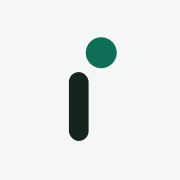
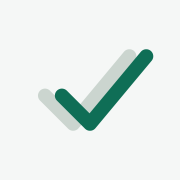
Add files via upload

Changed region(s): [[0.1944, 0.1944, 0.8611, 0.8056]]

diff --git a/index.html b/index.html
@@ -3,7 +3,7 @@
 <head>
 <meta charset="utf-8">
 <meta name="viewport" content="width=device-width, initial-scale=1, viewport-fit=cover">
-<title>Aferí</title>
+<title>Rectius</title>
 <meta name="mobile-web-app-capable" content="yes">
 <meta name="apple-mobile-web-app-capable" content="yes">
 <meta name="apple-mobile-web-app-status-bar-style" content="default">
@@ -180,11 +180,13 @@ tr.me td{font-weight:700}
 #splash.gone{opacity:0;pointer-events:none}
 .splash-name{color:#16241E;font-family:"Space Grotesk";font-size:21px;font-weight:600;letter-spacing:-.01em}
 .splash-sub{color:#6B7280;font-size:12.5px;margin-top:-8px}
-.sp-mark{position:relative;width:120px;height:112px;margin-bottom:6px}
-.sp-i{position:absolute;left:47px;bottom:8px;width:26px;height:66px;border-radius:13px;background:#16241E}
-.sp-bubble{position:absolute;left:74px;top:0;width:40px;height:40px;border-radius:50%;background:#0F6E56;animation:spDrop .8s cubic-bezier(.34,1.56,.64,1) .15s both}
-@keyframes spDrop{0%{transform:translateY(-66px);opacity:0}55%{opacity:1}100%{transform:translateY(0);opacity:1}}
-#splash .splash-name{animation:spFade .5s ease .5s both}
+.sp-mark{position:relative;width:120px;height:112px;margin-bottom:10px}
+.sp-check{fill:none;stroke-linecap:round;stroke-linejoin:round;stroke-dasharray:60;stroke-dashoffset:60}
+.sp-check-1{stroke:#CBD5CF;stroke-width:9;animation:spDraw .7s ease .3s forwards}
+.sp-check-2{stroke:#0F6E56;stroke-width:9;animation:spDraw .7s ease 1.05s forwards}
+@keyframes spDraw{to{stroke-dashoffset:0}}
+.splash-name{opacity:0;animation:spFade .6s ease 2s forwards}
+.splash-sub{opacity:0;animation:spFade .6s ease 2.25s forwards}
 @keyframes spFade{from{opacity:0;transform:translateY(6px)}to{opacity:1;transform:translateY(0)}}
 /* overlays (tutorial / info) */
 .ovl{position:fixed;inset:0;z-index:900;background:rgba(6,20,16,.55);display:flex;align-items:center;
@@ -525,8 +527,8 @@ tr.me td{font-weight:700}
 </head>
 <body>
 <header><div class="wrap hbar">
-  <div class="logo"><svg viewBox="0 0 24 24" fill="none"><rect x="9" y="9.5" width="3.4" height="11" rx="1.7" fill="currentColor"/><circle cx="15.2" cy="7" r="2.7" fill="#0F6E56"/></svg></div>
-  <div><div class="htitle">Aferí<small>Correção por foto · A–E</small></div></div>
+  <div class="logo"><svg viewBox="0 0 24 24" fill="none"><path d="M5.5 12.5 L9.5 16.5 L16 6.5" stroke="#CBD5CF" stroke-width="2.3" stroke-linecap="round" stroke-linejoin="round"/><path d="M8 12.5 L12 16.5 L18.5 6.5" stroke="#0F6E56" stroke-width="2.3" stroke-linecap="round" stroke-linejoin="round"/></svg></div>
+  <div><div class="htitle">Rectius<small>Correção por foto · A–E</small></div></div>
   <button class="iconbtn" id="themeBtn" title="Alternar tema" aria-label="Alternar tema"></button>
 </div></header>
 
@@ -935,17 +937,20 @@ tr.me td{font-weight:700}
     </div>
   </section>
 
-  <div class="sig">Desenvolvido por <b>Thiago Silveira</b> · <span style="opacity:.7">versão 22set-e</span></div>
+  <div class="sig">Desenvolvido por <b>Thiago Silveira</b> · <span style="opacity:.7">versão 02out-rectius-b</span></div>
 </div>
 
 <div class="toast" id="toast"></div>
 
 <div id="splash">
-  <div class="sp-mark" aria-hidden="true"><div class="sp-i"></div><div class="sp-bubble"></div></div>
-  <div class="splash-name">Aferí</div>
-  <div class="splash-sub">Correção por foto</div>
+  <svg class="sp-mark" viewBox="0 0 120 112" aria-hidden="true">
+    <path class="sp-check sp-check-1" d="M30 58 L48 76 L78 34"/>
+    <path class="sp-check sp-check-2" d="M42 58 L60 76 L90 34"/>
+  </svg>
+  <div class="splash-name">Rectius</div>
+  <div class="splash-sub">do latim: mais certo</div>
 </div>
-<script>setTimeout(function(){var s=document.getElementById('splash');if(s){s.style.transition='opacity .45s ease';s.style.opacity='0';setTimeout(function(){if(s&&s.parentNode)s.remove();},520);}},1300);</script>
+<script>setTimeout(function(){var s=document.getElementById('splash');if(s){s.style.transition='opacity .45s ease';s.style.opacity='0';setTimeout(function(){if(s&&s.parentNode)s.remove();},520);}},3550);</script>
 
 <div id="folhaOvl" class="ovl hidden">
   <div class="ovl-card">
@@ -984,7 +989,7 @@ tr.me td{font-weight:700}
 
 <div id="tutorial" class="ovl hidden">
   <div class="ovl-card">
-    <h2>Bem-vindo ao Aferí</h2>
+    <h2>Bem-vindo ao Rectius</h2>
     <div class="sub">Corrigir provas por foto, em 3 passos:</div>
     <ol>
       <li><b>Monte o gabarito</b> na aba <b>Gabarito</b> — marque a resposta certa de cada questão. Escolha o cartão (Modelo 01 ou ENEM) lá no topo.</li>
@@ -1357,7 +1362,7 @@ $("#expCopy").onclick=async()=>{
 $("#impDo").onclick=()=>{
   const raw=$("#impIn").value.trim(); if(!raw){toast("Cole o código recebido primeiro.");return;}
   let d; try{ d=JSON.parse(raw); }catch(e){ toast("Código inválido — confira se copiou tudo."); return; }
-  if(!d||d.app!=="leitor-cartao"){ toast("Este código não é do Aferí."); return; }
+  if(!d||d.app!=="leitor-cartao"){ toast("Este código não é do Rectius."); return; }
   const temTurmas=d.roster&&typeof d.roster==="object";
   const temGab=d.key&&Array.isArray(d.key.ans);
   if(!temTurmas&&!temGab){ toast("O código não traz turmas nem gabarito."); return; }
@@ -2703,8 +2708,11 @@ function blDrawPDF(JsPDF, data){
   function drawTable(x,y,cols,rows){ let yy=tHeader(x,y,cols); rows.forEach(r=>{ yy=tRow(x,yy,cols,r,8); }); return yy; }
   function drawFoot(){
     const y=PH-12; setDraw(LINE); doc.setLineWidth(0.2); doc.line(ML,y,PW-MR,y);
+    doc.setLineWidth(0.35); doc.setLineCap("round"); doc.setLineJoin("round"); setDraw(MUTE);
+    doc.line(ML,y+2.6,ML+1.0,y+3.6); doc.line(ML+1.0,y+3.6,ML+2.6,y+1.0);
+    doc.line(ML+0.6,y+2.6,ML+1.6,y+3.6); doc.line(ML+1.6,y+3.6,ML+3.2,y+1.0);
     doc.setFont("helvetica","normal"); doc.setFontSize(7.5); setText(MUTE);
-    doc.text("Aferí", ML, y+4);
+    doc.text("Rectius", ML+4.2, y+4);
     doc.text("Gerado em "+data.data, PW-MR, y+4, {align:"right"});
   }
   function drawSigns(){
@@ -3855,6 +3863,18 @@ if('serviceWorker' in navigator){ window.addEventListener('load',function(){ nav
       }
     }
     if(LAY==='rascunho')drawRascunho();
+    try{
+      const __pc=doc.internal.getNumberOfPages();
+      for(let __p=1;__p<=__pc;__p++){
+        doc.setPage(__p);
+        const fx=ML, fy=PH-16;
+        doc.setLineWidth(0.6); doc.setLineCap('round'); doc.setLineJoin('round'); doc.setDrawColor(150,160,155);
+        doc.line(fx,fy,fx+3,fy+3); doc.line(fx+3,fy+3,fx+9,fy-5);
+        doc.line(fx+2,fy,fx+5,fy+3); doc.line(fx+5,fy+3,fx+11,fy-5);
+        doc.setFont('helvetica','normal'); doc.setFontSize(7); doc.setTextColor(150,160,155);
+        doc.text('Rectius', fx+16, fy+2);
+      }
+    }catch(e){}
     return doc.output('blob');
   }
 
@@ -3952,6 +3972,18 @@ if('serviceWorker' in navigator){ window.addEventListener('load',function(){ nav
       logos=logos.filter(Boolean);
       var cfg={ escola:(state.header&&state.header.escola)||'', titulo:(state.header&&state.header.titulo)||'', serie:(state.header&&state.header.serie)||'', nalt:5, copias:2, headerFull:true, logos:logos, campos:{turma:true,data:true,inscricao:false,professor:false}, disciplinas:secs };
       var r=fgGerar(cfg,JsPDF,logos[0]||null);
+      try{
+        var __pc2=r.doc.internal.getNumberOfPages();
+        for(var __p2=1;__p2<=__pc2;__p2++){
+          r.doc.setPage(__p2);
+          var __fx=6, __fy=293.5;
+          r.doc.setLineWidth(0.3); r.doc.setLineCap('round'); r.doc.setLineJoin('round'); r.doc.setDrawColor(165,175,170);
+          r.doc.line(__fx,__fy+1.6,__fx+0.7,__fy+2.4); r.doc.line(__fx+0.7,__fy+2.4,__fx+2.0,__fy+0.5);
+          r.doc.line(__fx+0.45,__fy+1.6,__fx+1.15,__fy+2.4); r.doc.line(__fx+1.15,__fy+2.4,__fx+2.45,__fy+0.5);
+          r.doc.setFont('helvetica','normal'); r.doc.setFontSize(5.5); r.doc.setTextColor(165,175,170);
+          r.doc.text('Rectius', __fx+3.2, __fy+2.2);
+        }
+      }catch(e){}
       var periodo=(state.header&&state.header.periodo)||''; var nomeSim=(cfg.titulo?(periodo?cfg.titulo+' - '+periodo:cfg.titulo):(periodo?'Simulado - '+periodo:'Simulado'));
       try{ setCustomSpec(r.spec); store.custom.escola=cfg.escola; store.custom.titulo=nomeSim; saveCustom(); refreshModeloOptions(); }catch(e){}
       var bytes=new Uint8Array(r.doc.output('arraybuffer'));
@@ -4020,7 +4052,8 @@ if('serviceWorker' in navigator){ window.addEventListener('load',function(){ nav
         });
       });
     });
-    return new D.Document({ sections:[{ properties:{ column:{count:2,space:708} }, children:children }] });
+    var footer=new D.Footer({ children:[ new D.Paragraph({ alignment:D.AlignmentType.CENTER, children:[ new D.TextRun({text:'✓✓ Rectius', color:'9CA39A', size:14, italics:true}) ] }) ] });
+  return new D.Document({ sections:[{ properties:{ column:{count:2,space:708} }, footers:{ default:footer }, children:children }] });
   }
   async function baixarWordProva(){
     if(totalQuestions()===0){ toast('Adicione ao menos uma questão antes de gerar o Word.'); return; }
@@ -4142,7 +4175,7 @@ if('serviceWorker' in navigator){ window.addEventListener('load',function(){ nav
 
 <div id="eb-gate" aria-hidden="false" role="dialog" aria-label="Entrar na escola">
   <div class="eb-card">
-    <div class="eb-brand"><div class="eb-dot">✓</div><div class="eb-h" style="margin:0">Aferí</div></div>
+    <div class="eb-brand"><div class="eb-dot">✓</div><div class="eb-h" style="margin:0">Rectius</div></div>
     <div id="eb-step-login">
       <div class="eb-h">Entrar na sua escola</div>
       <div class="eb-sub">Use seu nome, sua matrícula e o código da escola.</div>

diff --git a/sw.js b/sw.js
@@ -1,5 +1,5 @@
 /* Aferí — service worker (cache renovado) */
-const CACHE = 'aferi-v3';
+const CACHE = 'rectius-v2';
 const CORE = [
   './', './index.html', './manifest.webmanifest',
   './icon-192.png', './icon-512.png', './icon-512-maskable.png',
